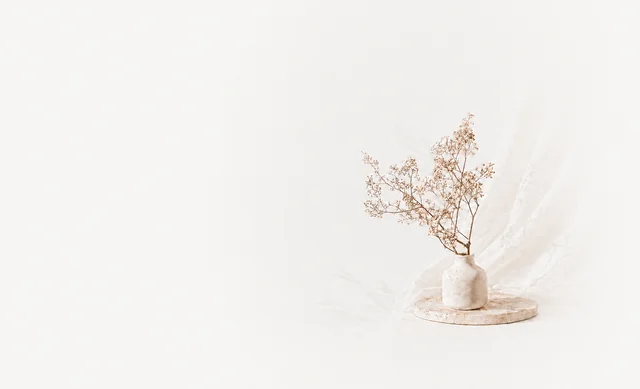
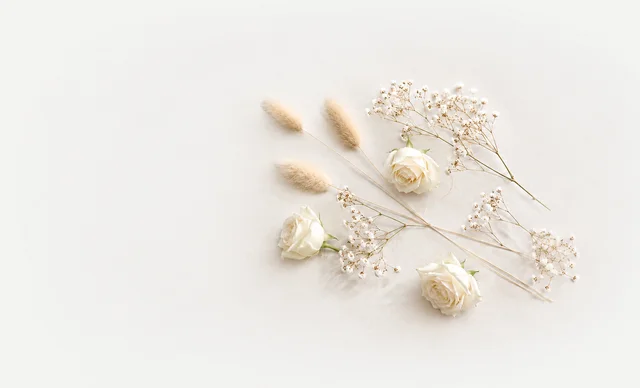
Swap homepage hero illustration to white roses/dried grass flat lay
Same 640-wide sizing approach; bump BUILD_VERSION and cache-busting query.

Claude-Session: https://claude.ai/code/session_01PxPckxnmRC1orDcja2NwgD

Changed region(s): [[0.4062, 0.2165, 0.9062, 0.866], [0.8125, 0.4948, 0.8438, 0.5258]]

diff --git a/index.html b/index.html
@@ -308,7 +308,7 @@
     <div class="hero-grid">
       <!-- 這張圖當背景鋪滿整個 hero-grid，文字直接疊在圖片上面（兩層：圖片在下、文字在上），
            沒有遮罩擋住插圖。 -->
-      <img class="hero-bg" src="img/hero-illustration.webp?v=2026-09-03-15" width="640" height="390" alt="" decoding="async" fetchpriority="high" aria-hidden="true">
+      <img class="hero-bg" src="img/hero-illustration.webp?v=2026-09-03-16" width="640" height="388" alt="" decoding="async" fetchpriority="high" aria-hidden="true">
       <ul class="feature-list">
         <li class="feature">
           <span class="feature-icon"><img src="img/feature-tag.webp" width="26" height="26" alt="" decoding="async"></span>
@@ -411,7 +411,7 @@
   // 自動偵測改版，避免手機瀏覽器停留在舊版內容（做法見 CLAUDE.md
   // 「Mobile browsers showing stale cached content」）。
   // 每次更新這個檔案，把版本號改成新的（例如當天日期）。
-  var BUILD_VERSION = "2026-09-03-15";
+  var BUILD_VERSION = "2026-09-03-16";
   var isCheckingUpdate = false;
   // 剛部署完的那幾分鐘，CDN 各節點還沒同步完成，這裡抓到的內容可能忽新忽舊，
   // 若每次偵測到差異就立刻重新整理，會讓頁面在測速工具（如 PageSpeed Insights）
